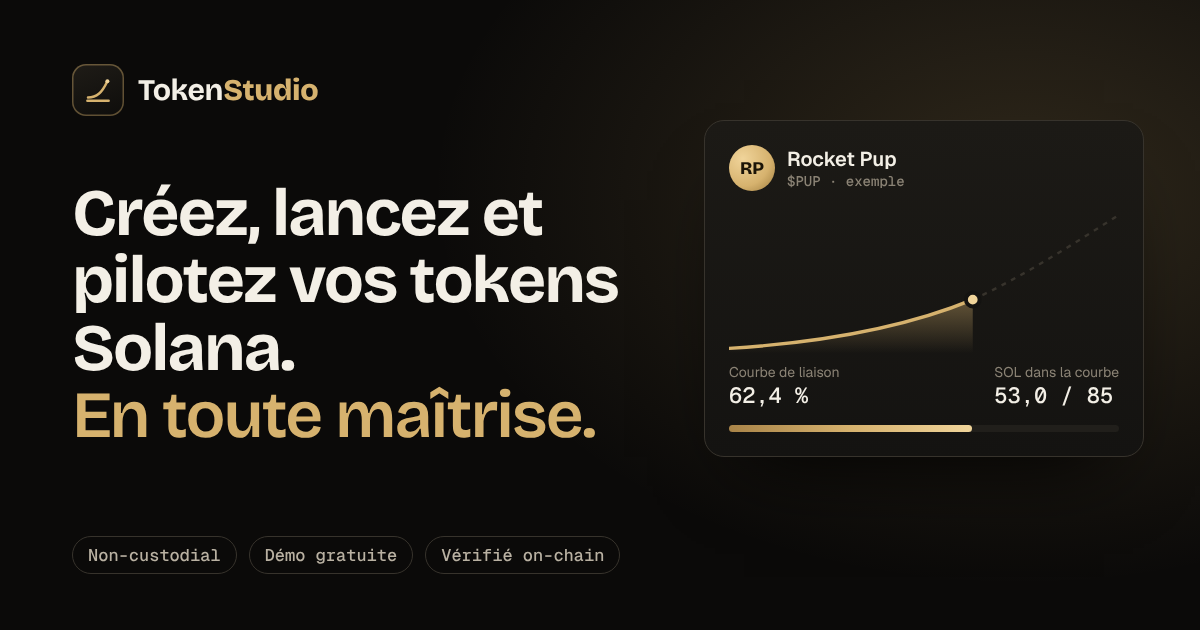
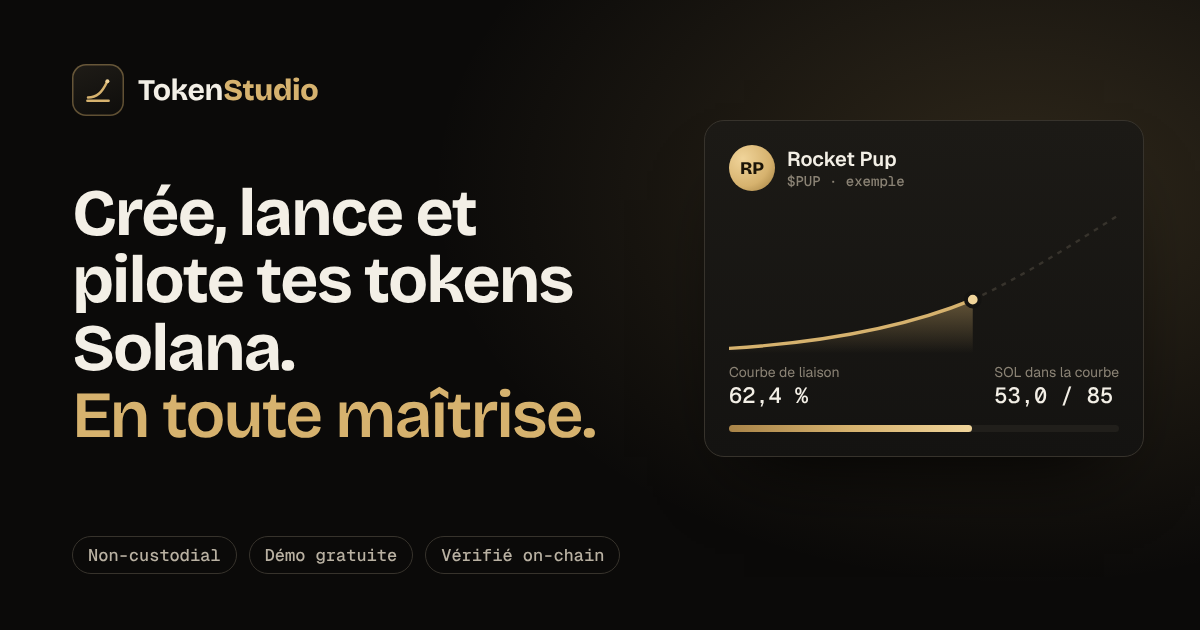
Réglages plus lisibles, tutoiement partout
- Titres des blocs de réglages en bandeau (majuscules, accent doré, filet)
  nettement distincts des réglages qu'ils contiennent ; lien d'aide visible
- Accueil, connexion, inscription et aperçus de partage au tutoiement,
  comme l'outil ; FAQ et textes de démo mis à jour

Claude-Session: https://claude.ai/code/session_01E6YTREeHyGxs2ZZMBsLcw3

Changed region(s): [[0.185, 0.3016, 0.5242, 0.4825]]

diff --git a/src/landing/Landing.tsx b/src/landing/Landing.tsx
@@ -79,7 +79,7 @@ function HeroDesk() {
           <li>{IC.check}Logo et fiche sur IPFS</li>
           <li>{IC.check}Transaction préparée</li>
           <li>{IC.check}Simulation acceptée</li>
-          <li className="now"><i />Signature dans votre wallet</li>
+          <li className="now"><i />Signature dans ton wallet</li>
         </ol>
       </div>
     </div>
@@ -87,21 +87,21 @@ function HeroDesk() {
 }
 
 const FEATURES: { ic: ReactNode; t: string; d: string; unit: string }[] = [
-  { ic: IC.spark, t: 'Studio de création', d: 'Idées de noms, symboles, descriptions et logos dans six univers. Ou partez de votre propre concept.', unit: '6 univers · 12 styles de logo' },
-  { ic: IC.rocket, t: 'Lancement vérifié', d: 'Le token est préparé, simulé sur la blockchain, puis publié sur pump.fun après votre signature.', unit: '≈ 0,02 SOL de frais réseau' },
+  { ic: IC.spark, t: 'Studio de création', d: 'Idées de noms, symboles, descriptions et logos dans six univers. Ou pars de ton propre concept.', unit: '6 univers · 12 styles de logo' },
+  { ic: IC.rocket, t: 'Lancement vérifié', d: 'Le token est préparé, simulé sur la blockchain, puis publié sur pump.fun après ta signature.', unit: '≈ 0,02 SOL de frais réseau' },
   { ic: IC.swap, t: 'Trader et ordres', d: 'Achat, vente, analyse de risque, prises de profit par paliers et stop suiveur, surveillés en continu.', unit: 'Alertes push même studio fermé' },
-  { ic: IC.bot, t: 'Bot de trading', d: 'Trois stratégies sur le flux pump.fun en direct. Entraînez-vous en papier, puis passez en réel avec plafonds.', unit: 'Équilibrée · Migration · Flash' },
+  { ic: IC.bot, t: 'Bot de trading', d: 'Trois stratégies sur le flux pump.fun en direct. Entraîne-toi en démo, puis passe en réel avec plafonds.', unit: 'Équilibrée · Migration · Flash' },
   { ic: IC.wallet, t: 'Portefeuille', d: 'Valeur, évolution, répartition, tokens détenus et activité. Dépôt par QR code, retrait en un geste.', unit: 'Solana Pay inclus' },
   { ic: IC.radio, t: 'Diffusion', d: 'Les étapes pour être référencé sur DexScreener, GeckoTerminal, Jupiter, CoinGecko et les autres.', unit: '8 plateformes suivies' },
 ];
 
 const FAQ: [string, string][] = [
-  ['Combien coûte TokenStudio ?', 'L\'outil est gratuit. Vous ne payez que les frais du réseau Solana et de pump.fun lors d\'un lancement ou d\'un trade, environ 0,02 SOL pour une création.'],
-  ['TokenStudio peut-il toucher à mes fonds ?', 'Non. Vos clés restent dans votre wallet, qui vous présente chaque transaction à signer. Seul le wallet rapide, si vous l\'activez, signe pour vous, et uniquement des opérations de trading dans la limite de vos plafonds.'],
-  ['Sous quel nom mon token apparaît-il sur pump.fun ?', 'Sous l\'adresse de votre wallet, ou sous votre pseudo pump.fun si ce wallet a un profil. Votre compte TokenStudio et votre e-mail ne sont jamais publiés.'],
-  ['À quoi sert la démo ?', 'À tout découvrir sans compte, avec un wallet démo de 10 SOL fictifs. Pour vérifier une opération sur la blockchain comme en réel, il faut un compte gratuit.'],
-  ['Quels sont les risques ?', 'Les memecoins sont extrêmement volatils : leur valeur peut tomber à zéro en quelques minutes. N\'engagez que ce que vous acceptez de perdre. TokenStudio ne promet aucun gain.'],
-  ['Où sont mes données ?', 'Sur votre compte : tout est enregistré automatiquement et vous suit sur chaque appareil. Vous pouvez les exporter ou supprimer votre compte à tout moment.'],
+  ['Combien coûte TokenStudio ?', 'L\'outil est gratuit. Tu ne paies que les frais du réseau Solana et de pump.fun lors d\'un lancement ou d\'un trade, environ 0,02 SOL pour une création.'],
+  ['TokenStudio peut-il toucher à mes fonds ?', 'Non. Tes clés restent dans ton wallet, qui te présente chaque transaction à signer. Seul le wallet rapide, si tu le crées, signe pour toi, et uniquement des opérations de trading dans la limite de tes plafonds.'],
+  ['Sous quel nom mon token apparaît-il sur pump.fun ?', 'Sous l\'adresse de ton wallet, ou sous ton pseudo pump.fun si ce wallet a un profil. Ton compte TokenStudio et ton e-mail ne sont jamais publiés.'],
+  ['À quoi sert la démo ?', 'À tout découvrir sans compte, avec un wallet démo de 10 SOL fictifs : création, lancement, ordres, bot, tout est simulé. Pour passer en réel, crée ton compte gratuit.'],
+  ['Quels sont les risques ?', 'Les memecoins sont extrêmement volatils : leur valeur peut tomber à zéro en quelques minutes. N\'engage que ce que tu acceptes de perdre. TokenStudio ne promet aucun gain.'],
+  ['Où sont mes données ?', 'Sur ton compte : tout est enregistré automatiquement et te suit sur chaque appareil. Tu peux les exporter ou supprimer ton compte à tout moment.'],
 ];
 
 export function Landing() {
@@ -122,7 +122,7 @@ export function Landing() {
   if ((!ready && maybeSignedIn()) || signed) return null;
   return (
     <div className="lp">
-      {deleted && <div className="lp-flash" role="status">Votre compte et toutes ses données ont été supprimés.</div>}
+      {deleted && <div className="lp-flash" role="status">Ton compte et toutes ses données ont été supprimés.</div>}
       <header className={'lp-nav' + (scrolled ? ' on' : '')}>
         <div className="lp-wrap lp-nav-in">
           <a className="lp-brand" href="/" aria-label="TokenStudio, accueil">
@@ -145,14 +145,14 @@ export function Landing() {
         <section className="lp-hero lp-wrap">
           <div className="lp-hero-t">
             <p className="lp-eyebrow">Studio de tokens Solana · pump.fun</p>
-            <h1>Créez, lancez et pilotez vos tokens Solana.<span> En toute maîtrise.</span></h1>
-            <p className="lp-lead">Du concept au lancement sur pump.fun, puis le suivi, les ordres et le bot de trading. Chaque transaction est vérifiée sur la blockchain avant que vous la signiez.</p>
+            <h1>Crée, lance et pilote tes tokens Solana.<span> En toute maîtrise.</span></h1>
+            <p className="lp-lead">Du concept au lancement sur pump.fun, puis le suivi, les ordres et le bot de trading. Chaque transaction est vérifiée sur la blockchain avant que tu la signes.</p>
             <div className="lp-cta">
               <a className="lp-btn lg" href={start.href}>{start.label}{IC.arrow}</a>
               <a className="lp-btn lg ghost" href="/app?demo=1">Essayer la démo</a>
             </div>
             <ul className="lp-trust">
-              <li>{IC.key}Non-custodial : vos clés restent dans votre wallet</li>
+              <li>{IC.key}Non-custodial : tes clés restent dans ton wallet</li>
               <li>{IC.eye}Démo sans compte, 10 SOL fictifs</li>
             </ul>
           </div>
@@ -183,14 +183,14 @@ export function Landing() {
         <section className="lp-sec lp-wrap" id="etapes">
           <div className="lp-sec-h"><p className="lp-eyebrow">Comment ça marche</p><h2>Trois étapes, de l'idée à la courbe.</h2></div>
           <ol className="lp-steps">
-            <li><span className="lp-n mono">1</span><h3>Créez</h3><p>Choisissez un univers, une idée, un logo. Le studio rédige la fiche et vérifie qu'il ne manque rien.</p></li>
-            <li><span className="lp-n mono">2</span><h3>Lancez</h3><p>Le token est simulé sur la blockchain, puis publié sur pump.fun dès que vous signez. Votre achat de départ passe dans la même transaction.</p></li>
-            <li><span className="lp-n mono">3</span><h3>Pilotez</h3><p>Suivez la courbe, fixez vos paliers de vente, recevez les alertes, laissez le bot travailler dans vos limites.</p></li>
+            <li><span className="lp-n mono">1</span><h3>Crée</h3><p>Choisis un univers, une idée, un logo. Le studio rédige la fiche et vérifie qu'il ne manque rien.</p></li>
+            <li><span className="lp-n mono">2</span><h3>Lance</h3><p>Le token est simulé sur la blockchain, puis publié sur pump.fun dès que tu signes. Ton achat de départ passe dans la même transaction.</p></li>
+            <li><span className="lp-n mono">3</span><h3>Pilote</h3><p>Suis la courbe, fixe tes paliers de vente, reçois les alertes, laisse le bot travailler dans tes limites.</p></li>
           </ol>
         </section>
 
         <section className="lp-sec lp-wrap" id="modes">
-          <div className="lp-sec-h"><p className="lp-eyebrow">Démo ou réel</p><h2>Entraînez-vous sans risque, passez en réel quand vous êtes prêt.</h2></div>
+          <div className="lp-sec-h"><p className="lp-eyebrow">Démo ou réel</p><h2>Entraîne-toi sans risque, passe en réel quand tu es prêt.</h2></div>
           <div className="lp-modes">
             <article className="lp-mode demo">
               <header><span className="lp-tag v">Démo</span><b>Sans compte</b></header>
@@ -198,17 +198,17 @@ export function Landing() {
                 <li>Wallet démo de 10 SOL fictifs</li>
                 <li>Lancements, achats et ventes simulés</li>
                 <li>Bot sur données simulées</li>
-                <li>Créez un compte pour vérifier chaque opération sur la blockchain</li>
+                <li>Crée ton compte quand tu veux passer en réel</li>
               </ul>
               <a className="lp-btn ghost" href="/app?demo=1">Ouvrir la démo</a>
             </article>
             <article className="lp-mode real">
               <header><span className="lp-tag r">Réel</span><b>Avec un compte gratuit</b></header>
               <ul>
-                <li>Votre vrai wallet : Phantom, Solflare, Backpack…</li>
+                <li>Ton vrai wallet : Phantom, Solflare, Backpack…</li>
                 <li>Vérification sur la blockchain avant chaque signature</li>
                 <li>« Tester avant de lancer » sur chaque action</li>
-                <li>Ordres et bot avec plafonds, alertes sur vos appareils</li>
+                <li>Ordres et bot avec plafonds, alertes sur tes appareils</li>
               </ul>
               <a className="lp-btn" href={start.href}>{start.label}</a>
             </article>
@@ -216,14 +216,14 @@ export function Landing() {
         </section>
 
         <section className="lp-sec lp-wrap lp-sec-split" id="securite">
-          <div className="lp-sec-h"><p className="lp-eyebrow">Sécurité</p><h2>Vos fonds restent à vous.</h2>
-            <p className="lp-sub">TokenStudio prépare les transactions. Votre wallet les signe. Rien ne part sans votre accord.</p></div>
+          <div className="lp-sec-h"><p className="lp-eyebrow">Sécurité</p><h2>Tes fonds restent à toi.</h2>
+            <p className="lp-sub">TokenStudio prépare les transactions. Ton wallet les signe. Rien ne part sans ton accord.</p></div>
           <ul className="lp-sec-list">
-            <li>{IC.key}<div><b>Non-custodial</b><span>Vos clés ne quittent jamais votre wallet. L'outil ne voit que votre adresse publique.</span></div></li>
-            <li>{IC.eye}<div><b>Vérifié avant signature</b><span>Chaque transaction est simulée sur la blockchain : si elle doit échouer, vous ne payez rien.</span></div></li>
+            <li>{IC.key}<div><b>Non-custodial</b><span>Tes clés ne quittent jamais ton wallet. L'outil ne voit que ton adresse publique.</span></div></li>
+            <li>{IC.eye}<div><b>Vérifié avant signature</b><span>Chaque transaction est simulée sur la blockchain : si elle doit échouer, tu ne paies rien.</span></div></li>
             <li>{IC.gauge}<div><b>Plafonds</b><span>Limite par achat et plafond journalier pour le bot et le wallet rapide.</span></div></li>
             <li>{IC.lock}<div><b>Compte protégé</b><span>Connexion par wallet ou e-mail sans mot de passe, double authentification, journal de sécurité.</span></div></li>
-            <li>{IC.bell}<div><b>Alertes, jamais d'exécution cachée</b><span>Le serveur vous prévient quand un ordre se déclenche. Il ne vend jamais sans votre réglage.</span></div></li>
+            <li>{IC.bell}<div><b>Alertes, jamais d'exécution cachée</b><span>Le serveur te prévient quand un ordre se déclenche. Il ne vend que selon les ordres que tu as réglés.</span></div></li>
           </ul>
         </section>
 
@@ -236,8 +236,8 @@ export function Landing() {
 
         <section className="lp-final lp-wrap">
           <div className="lp-final-in">
-            <h2>Votre prochain token commence ici.</h2>
-            <p>Découvrez l'outil en démo, ou créez votre compte gratuit pour passer en réel.</p>
+            <h2>Ton prochain token commence ici.</h2>
+            <p>Découvre l'outil en démo, ou crée ton compte gratuit pour passer en réel.</p>
             <div className="lp-cta">
               <a className="lp-btn lg" href={start.href}>{start.label}{IC.arrow}</a>
               <a className="lp-btn lg ghost" href="/app?demo=1">Essayer la démo</a>

diff --git a/index.html b/index.html
@@ -5,21 +5,21 @@
 <meta name="viewport" content="width=device-width,initial-scale=1,viewport-fit=cover">
 <meta name="theme-color" content="#0b0a09">
 <meta name="color-scheme" content="dark">
-<title>TokenStudio · Créez, lancez et pilotez vos tokens Solana</title>
-<meta name="description" content="Du concept au lancement sur pump.fun, puis le suivi, les ordres et le bot de trading. Non-custodial : vos clés restent dans votre wallet. Démo gratuite sans compte.">
+<title>TokenStudio · Crée, lance et pilote tes tokens Solana</title>
+<meta name="description" content="Du concept au lancement sur pump.fun, puis le suivi, les ordres et le bot de trading. Non-custodial : tes clés restent dans ton wallet. Démo gratuite sans compte.">
 <link rel="canonical" href="https://tokenstudio-sol.vercel.app/">
 <meta property="og:type" content="website">
 <meta property="og:site_name" content="TokenStudio">
 <meta property="og:url" content="https://tokenstudio-sol.vercel.app/">
-<meta property="og:title" content="TokenStudio · Créez, lancez et pilotez vos tokens Solana">
-<meta property="og:description" content="Du concept au lancement sur pump.fun, puis le suivi, les ordres et le bot. Vos clés restent dans votre wallet.">
+<meta property="og:title" content="TokenStudio · Crée, lance et pilote tes tokens Solana">
+<meta property="og:description" content="Du concept au lancement sur pump.fun, puis le suivi, les ordres et le bot. Tes clés restent dans ton wallet.">
 <meta property="og:image" content="https://tokenstudio-sol.vercel.app/og.png">
 <meta property="og:image:width" content="1200">
 <meta property="og:image:height" content="630">
 <meta property="og:locale" content="fr_FR">
 <meta name="twitter:card" content="summary_large_image">
-<meta name="twitter:title" content="TokenStudio · Créez, lancez et pilotez vos tokens Solana">
-<meta name="twitter:description" content="Du concept au lancement sur pump.fun, puis le suivi, les ordres et le bot. Vos clés restent dans votre wallet.">
+<meta name="twitter:title" content="TokenStudio · Crée, lance et pilote tes tokens Solana">
+<meta name="twitter:description" content="Du concept au lancement sur pump.fun, puis le suivi, les ordres et le bot. Tes clés restent dans ton wallet.">
 <meta name="twitter:image" content="https://tokenstudio-sol.vercel.app/og.png">
 <link rel="icon" href="/icon.svg" type="image/svg+xml">
 <link rel="apple-touch-icon" href="/apple-touch-icon.png">

diff --git a/src/legacy/legacy.css b/src/legacy/legacy.css
@@ -212,7 +212,10 @@ canvas{width:100%;display:block}
 .forms{display:grid;grid-template-columns:repeat(auto-fit,minmax(320px,1fr));gap:16px;align-items:start}
 fieldset{border:1px solid var(--line);border-radius:var(--r);padding:16px 18px 14px;margin:0;background:var(--panel);display:flex;flex-direction:column;transition:border-color .2s,box-shadow .2s;box-shadow:var(--shadow);min-width:0}
 fieldset.dirty{border-color:var(--amber-line);box-shadow:0 0 0 1px var(--amber-line) inset}
-legend{padding:0 6px;color:var(--text);font-family:var(--display);font-size:15px;font-weight:700;letter-spacing:-.1px}
+/* titre d'un bloc de réglages : bandeau en tête du bloc, nettement distinct des réglages qu'il contient */
+legend{float:left;width:100%;display:flex;align-items:center;gap:10px;margin:0 0 4px;padding:2px 0 12px;border-bottom:1px solid var(--line);color:var(--accent-ink);font-family:var(--sans);font-size:12.5px;font-weight:700;letter-spacing:1.1px;text-transform:uppercase}
+legend::before{content:"";flex:none;width:4px;height:16px;border-radius:2px;background:var(--accent)}
+legend+*{clear:both}
 .f{display:grid;grid-template-columns:minmax(0,1fr) minmax(136px,44%);align-items:center;gap:12px;padding:10px 0;border-bottom:1px solid var(--line)}
 .f:last-of-type{border-bottom:none}
 .f label{font-size:14px;font-weight:500}
@@ -1210,4 +1213,4 @@ textarea{font:inherit;color:inherit}
 .kp-in:focus{outline:none;border-color:var(--accent);box-shadow:var(--focus)}
 .kp-err{margin:10px 0 0}
 .kp-note{margin:10px 0 0;font-size:12.5px;color:var(--dim)}
-.kp-help{display:block;width:fit-content;margin:0 0 6px auto}
+.kp-help{display:block;width:fit-content;margin:0 0 6px auto;color:var(--accent-ink)}

diff --git a/src/landing/AuthPage.tsx b/src/landing/AuthPage.tsx
@@ -19,11 +19,11 @@ export function AuthPage({ signup }: { signup: boolean }) {
           <span>Token<b>Studio</b></span>
         </a>
         <div className="lp-auth-copy">
-          <h1>{signup ? 'Votre studio de tokens, prêt en une signature.' : 'Bon retour sur TokenStudio.'}</h1>
+          <h1>{signup ? 'Ton studio de tokens, prêt en une signature.' : 'Bon retour sur TokenStudio.'}</h1>
           <ul>
             <li>{CHECK}Lancements vérifiés sur la blockchain avant signature</li>
             <li>{CHECK}Ordres, alertes et bot avec plafonds</li>
-            <li>{CHECK}Vos clés restent dans votre wallet</li>
+            <li>{CHECK}Tes clés restent dans ton wallet</li>
           </ul>
         </div>
         <div className="lp-auth-art" aria-hidden="true">
@@ -33,7 +33,7 @@ export function AuthPage({ signup }: { signup: boolean }) {
             <path d="M0 150 C 90 148, 170 138, 240 110 S 350 40, 400 10" className="lp-line" pathLength={1} />
           </svg>
         </div>
-        <p className="lp-auth-foot">Gratuit. Aucun compte n'est créé sans votre accord.</p>
+        <p className="lp-auth-foot">Gratuit. Aucun compte n'est créé sans ton accord.</p>
       </aside>
       <main className="lp-auth-main">
         <div className="lp-auth-card">

diff --git a/app.html b/app.html
@@ -12,12 +12,12 @@
 <meta name="apple-mobile-web-app-title" content="TokenStudio">
 <meta name="color-scheme" content="dark">
 <title>TokenStudio · Outil</title>
-<meta name="description" content="Créez, lancez et pilotez vos tokens Solana : lancement vérifié sur pump.fun, ordres, alertes et bot de trading.">
+<meta name="description" content="Crée, lance et pilote tes tokens Solana : lancement vérifié sur pump.fun, ordres, alertes et bot de trading.">
 <meta name="robots" content="noindex">
 <meta property="og:type" content="website">
 <meta property="og:site_name" content="TokenStudio">
-<meta property="og:title" content="TokenStudio · Créez, lancez et pilotez vos tokens Solana">
-<meta property="og:description" content="Du concept au lancement sur pump.fun, puis les ordres et le bot. Vos clés restent dans votre wallet.">
+<meta property="og:title" content="TokenStudio · Crée, lance et pilote tes tokens Solana">
+<meta property="og:description" content="Du concept au lancement sur pump.fun, puis les ordres et le bot. Tes clés restent dans ton wallet.">
 <meta property="og:image" content="https://tokenstudio-sol.vercel.app/og.png">
 <meta property="og:image:width" content="1200">
 <meta property="og:image:height" content="630">
